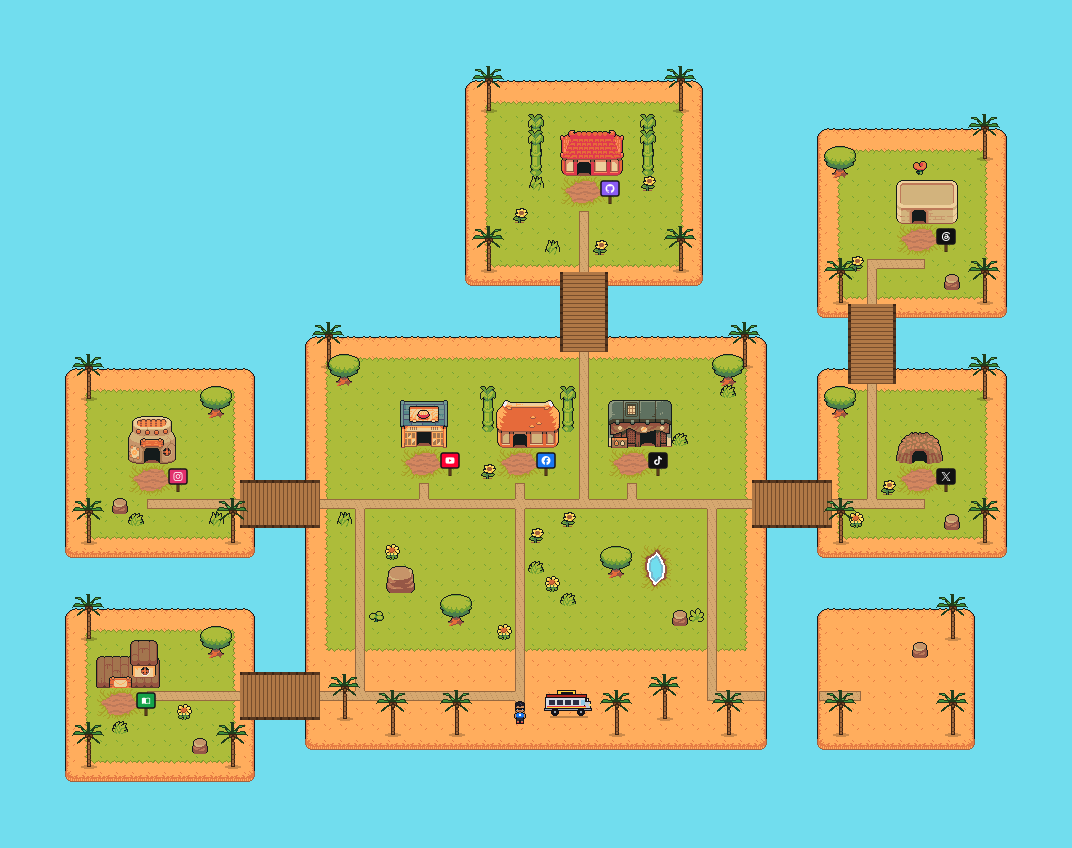
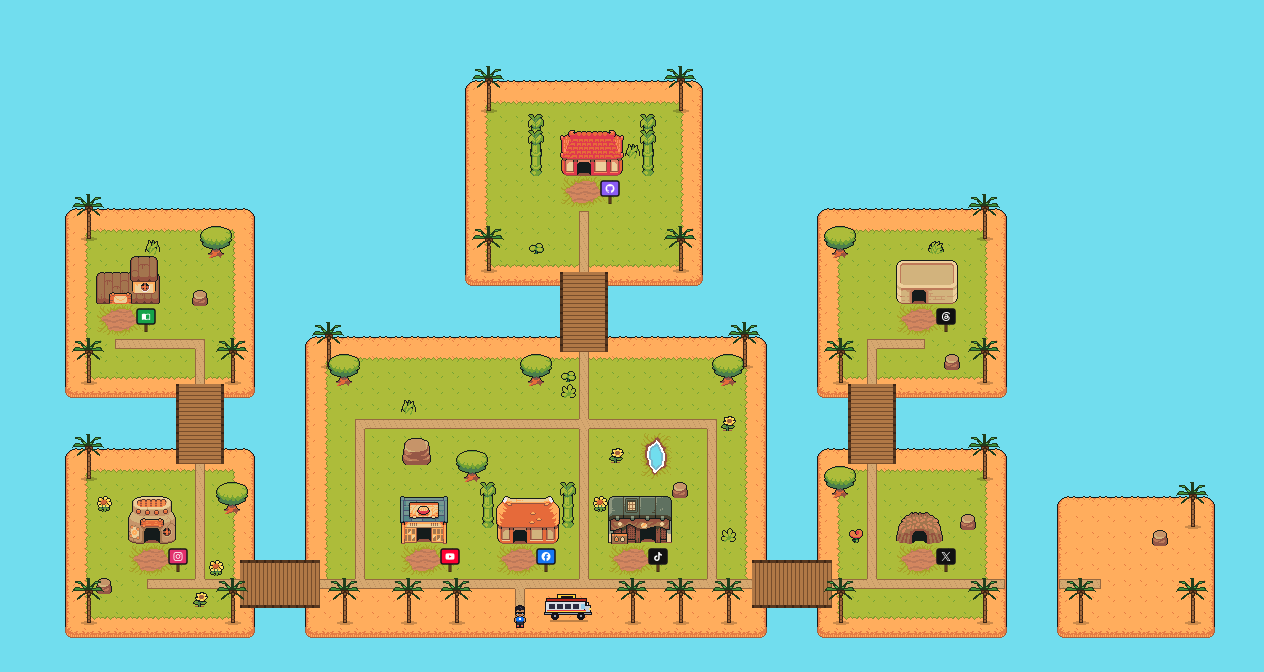
shorten the distance during respawn on the first building

diff --git a/src/game/WorldScene.ts b/src/game/WorldScene.ts
@@ -823,7 +823,9 @@ export class WorldScene extends Phaser.Scene {
           duration: ((land.x - this.spawn.x) / SPEED) * 1000,
           onComplete: () => {
             this.endArrival();
-            if (line) this.say(line);
+            // first thing a new player reads: where to go (the guide arrow bounces over it)
+            this.spoke = true;
+            this.say(line ?? this.idleLine(), 3200);
           },
         });
       },

diff --git a/docs/PLAN.md b/docs/PLAN.md
@@ -12,7 +12,7 @@ A Filipino-flavored, playable social hub for **@pogicodes**. **Sole goal: grow t
 | 4 | Instagram | Instagram Studio | +1 (click) |
 | 5 | X | X Corner | +1 (click) |
 | 6 | GitHub | GitHub Dojo — secret, far end of island | +1 (click) |
-| 7 | Website (blog, carlogino.com) | Blog Library — south-west islet, bridge from spawn beach | +1 (click) |
+| 7 | Website (blog, carlogino.com) | Blog Library — north-west islet, bridge from Instagram Studio | +1 (click) |
 | 8 | Threads (@pogicodes) | Threads Lounge — north-east islet, bridge from X's X Corner | +1 (click) |
 
 Bottom quick-link bar shows only Facebook, YouTube, TikTok, Instagram, X, GitHub (`navExclude` in `src/site.config.ts`).
@@ -65,7 +65,7 @@ Auto quick view when: reduced motion (with "Play anyway"), no WebGL, very slow d
 - ✅ Step 2 — Walkable island (Phaser 4): joystick + tap-to-walk + keyboard, doors → level cards, lamok/ipis, hearts, coins, ★ CLEARED, heal table, CONTINUE? screen, Follow all, menu, credits, Taglish lines, sound (off by default), auto quick view.
   - "Watched" = embed open & tab visible for 15s (FB/TikTok don't expose reliable progress without heavy SDKs).
 - ✅ Step 3 — ISLAND COMPLETE (confetti, "Salamat, idol!"), secret bridge to the hidden beach + chest → Teable `Secret` (`tblLdewX1xlberGLnUc`), share score (native share / Facebook / X / copy), OG image rendered from the island.
-- Map v4 (archipelago): main island holds the big three in one row — YouTube · Facebook · TikTok, Facebook in the middle straight up the road from spawn + jeepney — linked by 3-wide bridges to Instagram (W), X (E), GitHub Dojo (N), blog (SW); Threads via X (NE); hidden beach (SE) bridge appears on ISLAND COMPLETE. Roads everywhere (auto-walk prefers them); manual steering has corner assist. Custom 16×24 Pogi (jersey + tsinelas).
+- Map v4 (archipelago): main island holds the big three in one row — YouTube · Facebook · TikTok — facing the spawn beach; the jeepney drops Pogi a few steps below Facebook Hall, and the map ends just past the beach so the camera clamps and the start screen always shows the halls (Pogi also says "Tara sa Facebook Hall! ↑" on landing). Main street runs past all three doors to 3-wide bridges: Instagram (W), X (E); backyard road north to GitHub Dojo. Blog via Instagram (NW), Threads via X (NE); hidden beach (far E, past X) bridge appears on ISLAND COMPLETE. Roads everywhere (auto-walk prefers them); manual steering has corner assist. Custom 16×24 Pogi (jersey + tsinelas).
 
 ## Phasing
 
